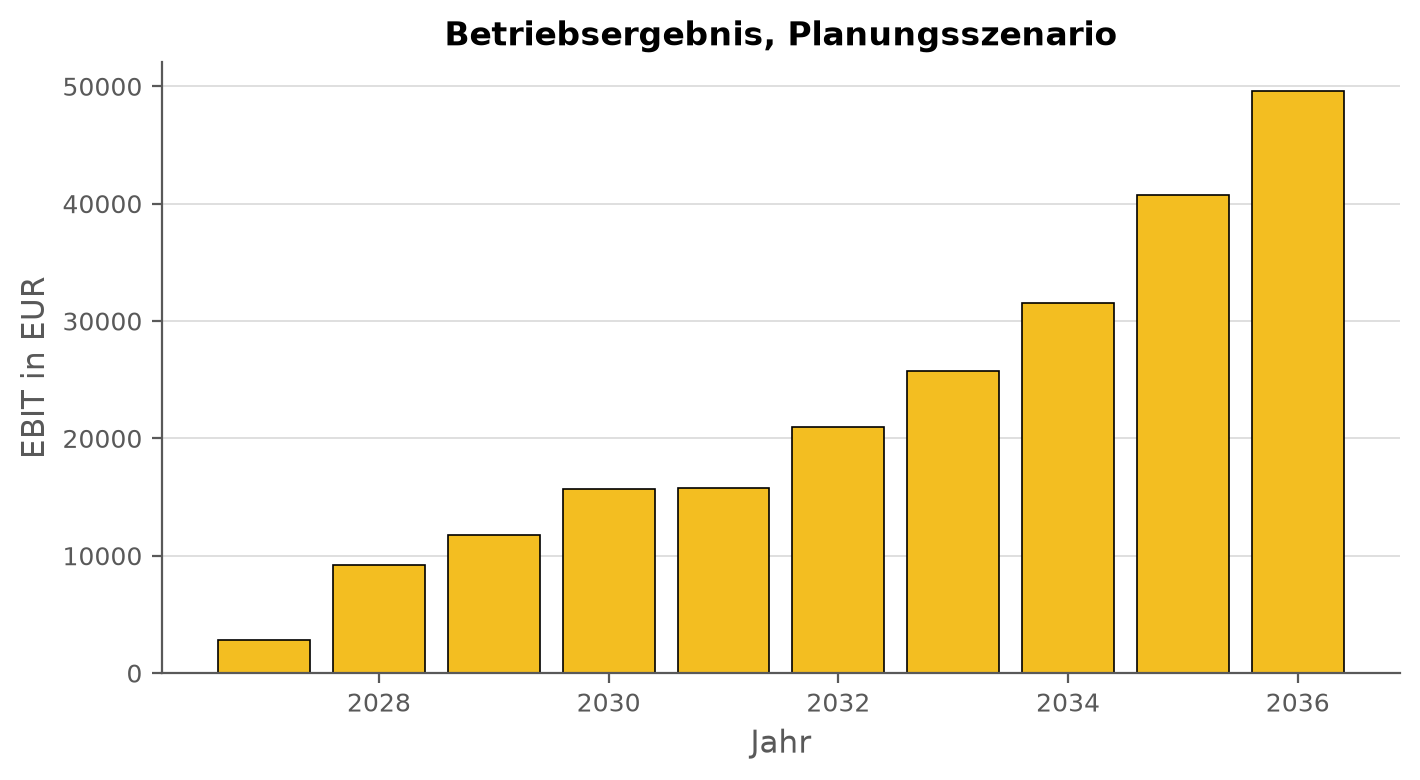
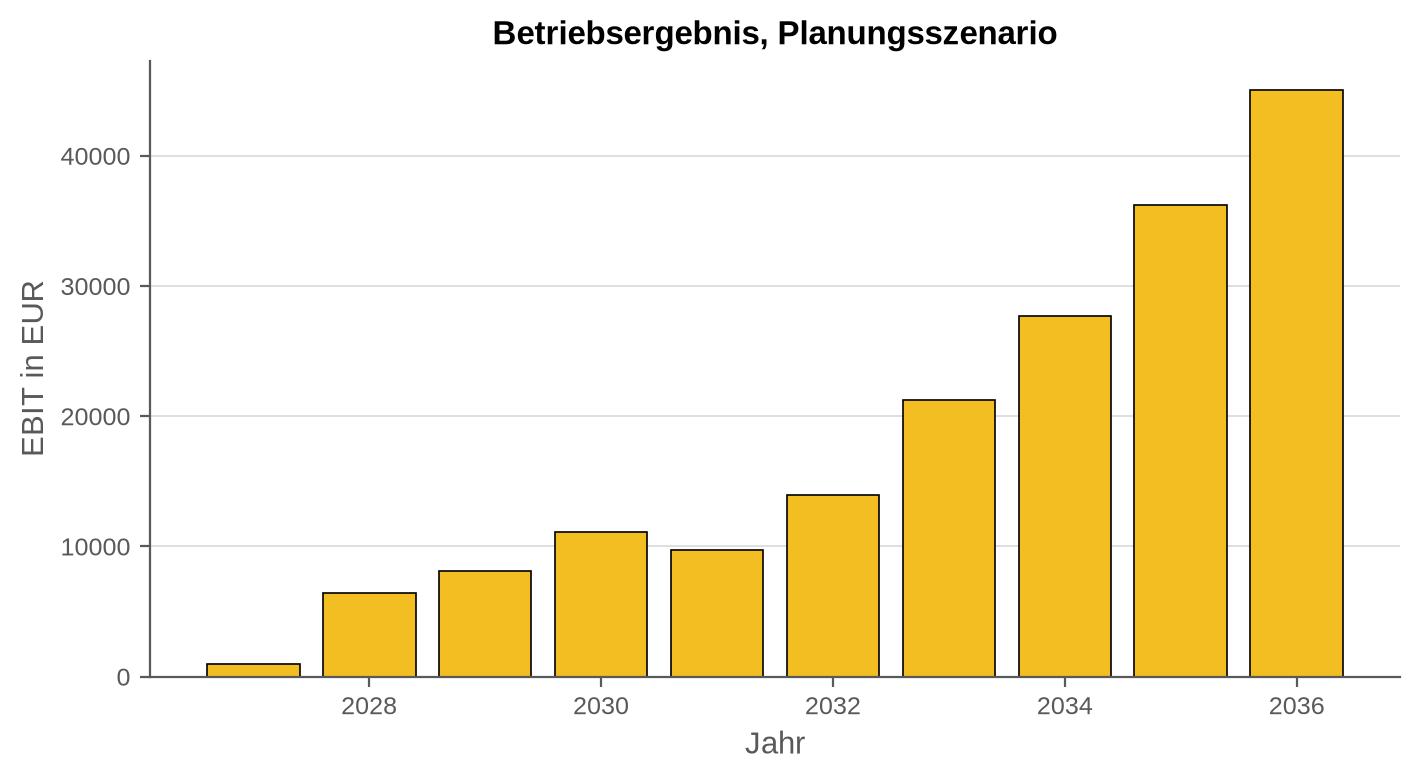
Businessplan: öffentliche Einwohnerzahlen, Anschaffung/AfA/Minijob angepasst, Risiken-Abschnitt entfernt
Auftraggeber-Vorgaben vom 30.08.2026:
- Einwohnerzahlen: öffentliche Vergleichszahlen statt gerundeter Schätzung
  (Bördekreis 170.984, Statistisches Landesamt Sachsen-Anhalt; Sülzetal
  8.841, citypopulation.de).
- Abschnitt 3 (Erlösquellen): Überschrift und Grafik auf einer Seite,
  aller Fließtext davor/danach entfernt (stand redundant in der Grafik
  selbst) — neue Funktion abschnitt_bild_quer() in make_businessplan.py.
- Annahmen-Tabelle: Anschaffung je Automat 6.000 € → 10.000 € netto,
  Abschreibungsdauer 8 → 6 Jahre, Minijob-Grenze 556 € → 603 €; Status-
  Hinweise ("geprüft", "Annahme", "nicht belegt") aus der Quelle-Spalte
  entfernt.
- Abschnitt 7 (Risiken und offene Punkte) vollständig entfernt.

Die Anschaffungs-/Abschreibungsänderung wirkt sich über die AfA auf jedes
EBIT im Modell aus; dabei sichtbar geworden: 2027 ist im konservativen
Szenario jetzt leicht negativ (−1.004 €). Beide Dokumente formulieren die
EBIT-Aussage seither bedingt statt pauschal "durchgehend positiv" zu
behaupten (negative_jahre_kons in make_businessplan.py, negJahre in
build_docx.js). ebit_balken.png und die docx-Fassung entsprechend
neu gebaut; PDF und Word inhaltlich wieder deckungsgleich.

Rechtsprüfung: reines Planungsdokument, keine Produkt-/DB-/Rechtstext-
Berührung in allen 8 Bereichen — keine Änderung nötig.

Claude-Session: https://claude.ai/code/session_01HnCVoQeDGMB1j3kdaKBaHP

diff --git a/docs/businessplan/build_docx.js b/docs/businessplan/build_docx.js
@@ -9,6 +9,17 @@ const {
 const daten = JSON.parse(fs.readFileSync("businessplan_zahlen.json", "utf8"));
 const datenKons = JSON.parse(fs.readFileSync("businessplan_zahlen_konservativ.json", "utf8"));
 
+const de0 = (n) => Math.round(n).toLocaleString("de-DE");
+const umsatz2027 = `${de0(daten[0].summe_erloese)} €`;
+const umsatz2036 = `${de0(daten[daten.length - 1].summe_erloese)} €`;
+const kumEbit = daten.reduce((s, r) => s + r.ebit, 0);
+const kumKons = datenKons.reduce((s, r) => s + r.ebit, 0);
+const negJahre = datenKons.filter((r) => r.ebit < 0).map((r) => r.jahr);
+const jahreText = negJahre.join(", ");
+const erstesNegBetrag = negJahre.length
+  ? `${de0(datenKons.find((r) => r.ebit < 0).ebit)} €`.replace("-", "−")
+  : "";
+
 // ---------------------------------------------------------------------
 // Marke
 // ---------------------------------------------------------------------
@@ -197,16 +208,18 @@ children.push(...bild("iconstrip_trim.png", 600));
 children.push(...ueberschrift("1. Zusammenfassung", 1, "**Bördesnack24 hat heute 0 dokumentierte Verkäufe.** Jede Zahl in diesem Plan ist deshalb eine Annahme, keine Messung, belegt mit der eigenen Preisliste oder einer externen Quelle."));
 children.push(hook("**Start: 3 Automaten** (2 in 2027, 1 in 2028), **4. bis 2029, danach +1 pro Jahr.** Bahnhof Osterweddingen, Freibad Langenweddingen, Sporthalle Langenweddingen."));
 children.push(spacer(120));
-children.push(kennzahlenReihe([["8.300 €", "Umsatz 2027"], ["103.900 €", "Umsatz 2036"], ["223.900 €", "EBIT, 10 Jahre kumuliert"], ["124.500 €", "EBIT konservativ, 10 Jahre"]]));
+children.push(kennzahlenReihe([[umsatz2027, "Umsatz 2027"], [umsatz2036, "Umsatz 2036"], [`${de0(kumEbit)} €`, "EBIT, 10 Jahre kumuliert"], [`${de0(kumKons)} €`, "EBIT konservativ, 10 Jahre"]]));
 children.push(spacer(240));
-children.push(hook("**Das Betriebsergebnis bleibt in jedem einzelnen der zehn Planjahre positiv**, auch im konservativen Szenario mit 40 % niedrigerem Umsatz je Automat (Abschnitt 6)."));
+children.push(hook(negJahre.length
+  ? `**Im Planungsszenario ist das Betriebsergebnis in jedem der zehn Jahre positiv.** Im konservativen Szenario (Abschnitt 6) ist einzig ${jahreText} leicht negativ (${erstesNegBetrag}), alle übrigen Jahre bleiben positiv.`
+  : "**Das Betriebsergebnis bleibt in jedem einzelnen der zehn Planjahre positiv**, auch im konservativen Szenario mit 40 % niedrigerem Umsatz je Automat (Abschnitt 6)."));
 
 // 2) Geschäftsmodell
 children.push(...ueberschrift("2. Geschäftsmodell und Standort", 1, "**Kein Nahversorger hat nachts oder sonntags offen.** Genau diese Lücke füllt Bördesnack24, App-Abo bindet zurück statt jeden Einkauf als Einzelereignis zu behandeln."));
 children.push(spacer(120));
-children.push(kennzahlenReihe([["168.000", "Einwohner Bördekreis"], ["9.000", "davon Sülzetal"], ["24/7", "Öffnungszeit"]]));
+children.push(kennzahlenReihe([["170.984", "Einwohner Bördekreis"], ["8.841", "davon Sülzetal"], ["24/7", "Öffnungszeit"]]));
 children.push(spacer(120));
-children.push(hinweis("Angaben des Auftraggebers; öffentliche Vergleichszahlen (citypopulation.de, Statista) liegen mit rund 171.000 bzw. 8.600–9.900 in derselben Größenordnung."));
+children.push(hinweis("Öffentliche Vergleichszahlen: Bördekreis, Statistisches Landesamt Sachsen-Anhalt (Stand 31.12.2025); Sülzetal, Gemeinde Sülzetal / citypopulation.de (Stand 01.01.2026)."));
 
 children.push(...ueberschrift("Standort- und Ausbauplan", 2, "**Vorgabe des Auftraggebers**, wörtlich umgesetzt: 3 Automaten zum Start, 4. bis 2029, danach +1 pro Jahr. **Die Zuordnung der ersten drei Standorte zu den Jahren ist ein Vorschlag dieses Plans**, keine Vorgabe."));
 
@@ -222,30 +235,26 @@ children.push(spacer(200));
 children.push(...bild("automatennetz_linie.png", 600, "Abb. 1: 3 Automaten zum Start, +1 pro Jahr ab 2030."));
 
 // 3) Erlösquellen
-children.push(...ueberschrift("3. Die vier Erlösquellen", 1, "**Keine Quelle steht für sich.** Der Automat bringt Kunden, die App macht sie zählbar, das macht die Werbeplattform wertvoll, Sponsoring bringt neue Standorte zurück zum Automaten."));
-children.push(...bild("zusammenspiel_pdf.png", 600, "Abb. 2: Zusammenspiel der vier Erlösquellen als ein System, nicht als vier getrennte Geschäfte."));
-children.push(kennzahlenReihe([["62", "Produkte"], ["0,99 € / 9,99 €", "App-Abo Monat/Jahr"], ["ab 15 €", "Werbung / Monat"], ["149 €", "Komplettpaket"]]));
-children.push(spacer(120));
-children.push(hinweis("Preise real, bereits entschieden (docs/ADVERTISING-MASTERPROMPT-ABGLEICH.md), nicht Teil dieses Plans neu festgelegt. Vor dem ersten Sponsoring-Vertrag: umsatzsteuerliche Prüfung durch den Steuerberater."));
-children.push(hook("**Offener Punkt bei der 5 %-Spende:** Heute kann jedes App-Konto vorschlagen und abstimmen, nicht nur zahlende Abonnenten, wie für diesen Plan angefragt (Abschnitt 7)."));
+children.push(...ueberschrift("3. Die vier Erlösquellen", 1));
+children.push(...bild("zusammenspiel_pdf.png", 600));
 
 // 4) Annahmen
 children.push(...ueberschrift("4. Annahmen dieses Plans", 1, "**Planungsannahmen, keine gemessenen Werte.** Mit Quelle, wo eine externe existiert, sonst eigene, im Text begründete Schätzung."));
 const annahmenZeilen = [
   ["Bruttoumsatz/Automat/Monat", "500–1.400 €, je Standort", "GTR Automaten/Maschinenpartner: 300–1.500 €/Monat typisch"],
-  ["Wareneinsatz Snacks/Getränke", "34,0 % vom Nettoumsatz", "eigene Preisliste, an DB geprüft"],
+  ["Wareneinsatz Snacks/Getränke", "34,0 % vom Nettoumsatz", "eigene Preisliste"],
   ["Wareneinsatz Heißgetränke", "16,5 % vom Nettoumsatz", "eigene Preisliste, Ø 6 Positionen"],
-  ["Anschaffung je Automat", "6.000 € netto", "VENDY1/dasvending: 4.989–9.000 € netto"],
-  ["Abschreibungsdauer", "8 Jahre linear", "angenommene Nutzungsdauer"],
+  ["Anschaffung je Automat", "10.000 € netto", "Angabe des Auftraggebers"],
+  ["Abschreibungsdauer", "6 Jahre linear", "Angabe des Auftraggebers"],
   ["Nayax-Grundgebühr", "14 €/Monat je Terminal", "Nayax-Shop FAQ"],
-  ["Kartengebühr", "3 % Kartenumsatz, 85 % Anteil", "Nayax Onyx 2,3–4 %, Anteil angenommen"],
-  ["Strom/Wartung/Versicherung", "40/30 €/Monat, 60 €/Jahr", "eigene Schätzung, nicht extern geprüft"],
-  ["Standortprovision", "5 % vom Bruttoumsatz", "branchenüblich, nicht belegt"],
-  ["Zahlende App-Abonnenten", "40 (2027) bis 720 (2036)", "eigene Schätzung, an Wachstum gekoppelt"],
+  ["Kartengebühr", "3 % Kartenumsatz, 85 % Anteil", "Nayax Onyx 2,3–4 %"],
+  ["Strom/Wartung/Versicherung", "40/30 €/Monat, 60 €/Jahr", ""],
+  ["Standortprovision", "5 % vom Bruttoumsatz", "branchenüblich"],
+  ["Zahlende App-Abonnenten", "40 (2027) bis 720 (2036)", "an Netzwachstum gekoppelt"],
   ["Ø Erlös je Abonnent", "0,90 €/Monat", "60 % Jahres-, 40 % Monatsabo"],
-  ["Auslastung Werbeflächen", "0 % (27/28) bis 70 % (36)", "eigene Rampe, Obergrenze wie Advertising-Dok."],
-  ["Digitale Werbekunden", "0 (27/28) bis 10 (36), Ø 60 €", "eigene Schätzung, Pakete real"],
-  ["Personal", "1 Minijob je 6 Automaten, 556 €", "Minijob-Grenze 2026, Schwelle Annahme"],
+  ["Auslastung Werbeflächen", "0 % (27/28) bis 70 % (36)", "Obergrenze wie Advertising-Dok."],
+  ["Digitale Werbekunden", "0 (27/28) bis 10 (36), Ø 60 €", "Paketpreise real"],
+  ["Personal", "1 Minijob je 6 Automaten, 603 €", "Minijob-Grenze 2026"],
 ];
 children.push(tabelle(["Größe", "Annahme", "Quelle / Begründung"], annahmenZeilen, [2600, 2400, 4000]));
 
@@ -254,13 +263,12 @@ children.push(...ueberschrift("5. Finanzplan, Jahr 1 bis 10", 1, "**Das Planungs
 const fpZeilen = daten.map((r) => [String(r.jahr), String(r.automaten), `${de(r.summe_erloese)} €`, `${de(r.summe_kosten_ohne_afa)} €`, `${de(r.afa_jahr)} €`, `${de(r.ebit)} €`]);
 children.push(tabelle(["Jahr", "Automaten", "Erlöse gesamt", "Kosten (o. AfA)", "Abschreibung", "EBIT"], fpZeilen, [1000, 1400, 1700, 1700, 1600, 1600], [1, 2, 3, 4, 5]));
 children.push(spacer(200));
-children.push(...bild("umsatz_balken.png", 600, "Abb. 3: Summe aller vier Erlösquellen nach Abzug des Spendenanteils."));
-children.push(...bild("erloesmix.png", 600, "Abb. 4: Anteil der vier Geschäftsbereiche am Erlös über den Planungszeitraum."));
-children.push(...bild("ebit_balken.png", 600, "Abb. 5: EBIT vor Steuern und Gesellschafterentnahmen; Delle 2031 durch die erste Teilzeitkraft ab dem 6. Automaten."));
+children.push(...bild("umsatz_balken.png", 600, "Abb. 2: Summe aller vier Erlösquellen nach Abzug des Spendenanteils."));
+children.push(...bild("erloesmix.png", 600, "Abb. 3: Anteil der vier Geschäftsbereiche am Erlös über den Planungszeitraum."));
+children.push(...bild("ebit_balken.png", 600, "Abb. 4: EBIT vor Steuern und Gesellschafterentnahmen; Delle 2031 durch die erste Teilzeitkraft ab dem 6. Automaten."));
 
 const kumSpende = daten.reduce((s, r) => s + r.spende, 0);
 const kumInvest = daten.reduce((s, r) => s + r.investition_jahr, 0);
-const kumEbit = daten.reduce((s, r) => s + r.ebit, 0);
 children.push(...ueberschrift("Spenden und Investitionen im Überblick", 2, "**Drei Zahlen, die den Plan zusammenfassen:**"));
 children.push(kennzahlenReihe([[`${de(kumSpende)} €`, "Spendentopf, 10 Jahre"], [`${de(kumInvest)} €`, "Investition, 11 Automaten"], [`${de(kumEbit)} €`, "EBIT kumuliert, 10 Jahre"]]));
 
@@ -268,27 +276,10 @@ children.push(kennzahlenReihe([[`${de(kumSpende)} €`, "Spendentopf, 10 Jahre"]
 children.push(...ueberschrift("6. Konservatives Szenario", 1, "**Was, wenn der Umsatz je Automat 40 % niedriger ausfällt?** Die unsicherste Annahme in diesem Plan, mit eigener Spalte durchgerechnet, alle übrigen Annahmen unverändert."));
 const sensZeilen = daten.map((r, i) => [String(r.jahr), `${de(r.ebit)} €`, `${de(datenKons[i].ebit)} €`]);
 children.push(tabelle(["Jahr", "EBIT Planungsszenario", "EBIT konservativ (−40 % Umsatz/Automat)"], sensZeilen, [1400, 3200, 4400], [1, 2]));
-const kumKons = datenKons.reduce((s, r) => s + r.ebit, 0);
 children.push(spacer(160));
-children.push(hook(`**Kumuliert sinkt das EBIT von ${de(kumEbit)} EUR auf ${de(kumKons)} EUR, bleibt aber in jedem einzelnen Jahr positiv.** Die drei zusätzlichen Erlösquellen hängen nicht am Automatenumsatz, das trägt den Unterschied.`));
-
-// 7) Risiken
-children.push(...ueberschrift("7. Risiken und offene Punkte", 1, "**Ehrlich benannt, statt beschönigt** (interne Arbeitsregel „Behauptungen vorher prüfen“):"));
-const risiken = [
-  "**Keine eigenen Ist-Verkaufsdaten.** Die Verkaufsdatenbank enthält 0 echte Zeilen (Stand 27.08.2026); jede Umsatzannahme hier ist extern hergeleitet oder eigene Schätzung.",
-  "**Standortzuordnung für Automat 1–3** auf 2027/2028 ist ein Vorschlag dieses Plans, keine Vorgabe des Auftraggebers. Standorte ab Automat 5 (2030) sind offen.",
-  "**Vereinsbeteiligung** ist umsatzsteuerlich in der Regel Leistungsaustausch, sobald Sichtbarkeit gewährt wird, vor dem ersten Sponsoring-Vertrag steuerlich zu bestätigen.",
-  "**Spendenabstimmung heute offen für alle Konten**, nicht nur zahlende Abonnenten. Die für diesen Plan angefragte Beschränkung ist im System nicht umgesetzt.",
-  "**Nayax-Gebühren, Standortprovision, Strom- und Wartungskosten** sind branchenübliche Annahmen, nicht am eigenen Betrieb geprüft (keine laufenden Verträge zum Planungszeitpunkt).",
-  "**sevDesk-Kontozuordnung** braucht laut docs/FINANCE.md eine einmalige Prüfung gegen das echte Konto, bevor Ist-Zahlen produktiv genutzt werden.",
-];
-risiken.forEach((r) => {
-  children.push(new Paragraph({
-    numbering: { reference: "risiken-liste", level: 0 },
-    spacing: { after: 140 },
-    children: bold(r),
-  }));
-});
+children.push(hook(negJahre.length
+  ? `**Kumuliert sinkt das EBIT von ${de(kumEbit)} EUR auf ${de(kumKons)} EUR.** Einzig ${jahreText} ist leicht negativ (${erstesNegBetrag}), alle übrigen Jahre bleiben positiv. Die drei zusätzlichen Erlösquellen hängen nicht am Automatenumsatz, das trägt den Unterschied.`
+  : `**Kumuliert sinkt das EBIT von ${de(kumEbit)} EUR auf ${de(kumKons)} EUR, bleibt aber in jedem einzelnen Jahr positiv.** Die drei zusätzlichen Erlösquellen hängen nicht am Automatenumsatz, das trägt den Unterschied.`));
 
 // ---------------------------------------------------------------------
 // Dokument zusammenbauen
@@ -300,13 +291,6 @@ const doc = new Document({
     default: {
       document: { run: { font: FONT_TEXT, size: 21, color: SCHWARZ } },
     },
-  },
-  numbering: {
-    config: [{
-      reference: "risiken-liste",
-      levels: [{ level: 0, format: LevelFormat.BULLET, text: "•", alignment: AlignmentType.LEFT,
-        style: { paragraph: { indent: { left: convertInchesToTwip(0.25), hanging: convertInchesToTwip(0.25) } } } }],
-    }],
   },
   sections: [{
     properties: {

diff --git a/docs/businessplan/zusammenspiel_v2.html b/docs/businessplan/zusammenspiel_v2.html
@@ -185,7 +185,6 @@
 
   <div class="fuss">
     <span>Bördesnack24 GbR</span>
-    <span>Vier Erlösquellen als ein zusammenhängendes System, nicht als vier getrennte Geschäfte.</span>
   </div>
 
 </div>

diff --git a/docs/businessplan/make_businessplan.py b/docs/businessplan/make_businessplan.py
@@ -66,14 +66,19 @@ def kennzahlen_reihe(doc, werte):
     doc.story.append(t)
     doc.story.append(Spacer(1, 2 * pb.mm))
 
-def bild_quer(doc, pfad, unterschrift=None):
-    """Vollformatiges Bild auf eigener Querseite -- fuer breite Grafiken,
-    die im Hochformat zu klein und unleserlich wuerden."""
+def abschnitt_bild_quer(doc, titel, pfad, unterschrift=None):
+    """Ueberschrift UND ein Vollformat-Bild zusammen auf einer eigenen
+    Querseite -- fuer breite Grafiken, die im Hochformat zu klein und
+    unleserlich wuerden, aber trotzdem mit ihrer Ueberschrift auf
+    derselben Seite stehen sollen (nicht die Ueberschrift auf der
+    vorherigen Hochformat-Seite)."""
     doc._nach_quer()
+    doc.story.append(Paragraph(_esc(titel), doc.st["h1"]))
+    doc.story.append(HRFlowable(width="100%", thickness=1.2, color=pb.GOLD, spaceBefore=2, spaceAfter=6))
     iw, ih = ImageReader(pfad).getSize()
     aspekt = iw / ih
     max_breite = pb.LANDSCAPE_CONTENT
-    max_hoehe = (pb.LAND_H - pb.RAND_OBEN_OHNE_HEADER) - pb.RAND_UNTEN
+    max_hoehe = (pb.LAND_H - pb.RAND_OBEN_OHNE_HEADER) - pb.RAND_UNTEN - 22 * pb.mm
     if unterschrift:
         max_hoehe -= 14 * pb.mm
     breite, hoehe = max_breite, max_breite / aspekt
@@ -164,7 +169,6 @@ TOC_ABSCHNITTE = [
     ("5. Finanzplan, Jahr 1 bis 10", 1),
     ("Spenden und Investitionen im Überblick", 2),
     ("6. Konservatives Szenario", 1),
-    ("7. Risiken und offene Punkte", 1),
 ]
 
 # ---------------------------------------------------------------------
@@ -174,19 +178,19 @@ TOC_ABSCHNITTE = [
 ANNAHMEN_TABELLE = [
     ["Größe", "Annahme", "Quelle / Begründung"],
     ["Bruttoumsatz/Automat/Monat", "500–1.400 €, je Standort", "GTR Automaten/Maschinenpartner: 300–1.500 €/Monat typisch"],
-    ["Wareneinsatz Snacks/Getränke", "34,0 % vom Nettoumsatz", "eigene Preisliste, an DB geprüft"],
+    ["Wareneinsatz Snacks/Getränke", "34,0 % vom Nettoumsatz", "eigene Preisliste"],
     ["Wareneinsatz Heißgetränke", "16,5 % vom Nettoumsatz", "eigene Preisliste, Ø 6 Positionen"],
-    ["Anschaffung je Automat", "6.000 € netto", "VENDY1/dasvending: 4.989–9.000 € netto"],
-    ["Abschreibungsdauer", "8 Jahre linear", "angenommene Nutzungsdauer"],
+    ["Anschaffung je Automat", "10.000 € netto", "Angabe des Auftraggebers"],
+    ["Abschreibungsdauer", "6 Jahre linear", "Angabe des Auftraggebers"],
     ["Nayax-Grundgebühr", "14 €/Monat je Terminal", "Nayax-Shop FAQ"],
-    ["Kartengebühr", "3 % Kartenumsatz, 85 % Anteil", "Nayax Onyx 2,3–4 %, Anteil angenommen"],
-    ["Strom/Wartung/Versicherung", "40/30 €/Monat, 60 €/Jahr", "eigene Schätzung, nicht extern geprüft"],
-    ["Standortprovision", "5 % vom Bruttoumsatz", "branchenüblich, nicht belegt"],
-    ["Zahlende App-Abonnenten", "40 (2027) bis 720 (2036)", "eigene Schätzung, an Wachstum gekoppelt"],
+    ["Kartengebühr", "3 % Kartenumsatz, 85 % Anteil", "Nayax Onyx 2,3–4 %"],
+    ["Strom/Wartung/Versicherung", "40/30 €/Monat, 60 €/Jahr", ""],
+    ["Standortprovision", "5 % vom Bruttoumsatz", "branchenüblich"],
+    ["Zahlende App-Abonnenten", "40 (2027) bis 720 (2036)", "an Netzwachstum gekoppelt"],
     ["Ø Erlös je Abonnent", "0,90 €/Monat", "60 % Jahres-, 40 % Monatsabo"],
-    ["Auslastung Werbeflächen", "0 % (27/28) bis 70 % (36)", "eigene Rampe, Obergrenze wie Advertising-Dok."],
-    ["Digitale Werbekunden", "0 (27/28) bis 10 (36), Ø 60 €", "eigene Schätzung, Pakete real"],
-    ["Personal", "1 Minijob je 6 Automaten, 556 €", "Minijob-Grenze 2026, Schwelle Annahme"],
+    ["Auslastung Werbeflächen", "0 % (27/28) bis 70 % (36)", "Obergrenze wie Advertising-Dok."],
+    ["Digitale Werbekunden", "0 (27/28) bis 10 (36), Ø 60 €", "Paketpreise real"],
+    ["Personal", "1 Minijob je 6 Automaten, 603 €", "Minijob-Grenze 2026"],
 ]
 
 # =======================================================================
@@ -214,26 +218,39 @@ def baue_inhalt(doc, toc_seiten):
     ])
     doc.bild("iconstrip_trim.png", breite_mm=155)
 
+    umsatz_2027 = f'{daten[0]["summe_erloese"]:,.0f} €'.replace(",", ".")
+    umsatz_2036 = f'{daten[-1]["summe_erloese"]:,.0f} €'.replace(",", ".")
+    ebit_kum = sum(r["ebit"] for r in daten)
+    ebit_kum_kons = sum(r["ebit"] for r in daten_kons)
+    ebit_kum_de = f'{ebit_kum:,.0f} €'.replace(",", ".")
+    ebit_kum_kons_de = f'{ebit_kum_kons:,.0f} €'.replace(",", ".")
+
     abschnitt(doc, "1. Zusammenfassung", 1,
               "**Bördesnack24 hat heute 0 dokumentierte Verkäufe.** Jede Zahl in diesem Plan ist deshalb eine Annahme, keine Messung, belegt mit der eigenen Preisliste oder einer externen Quelle.")
     hook(doc, "**Start: 3 Automaten** (2 in 2027, 1 in 2028), **4. bis 2029, danach +1 pro Jahr.** Bahnhof Osterweddingen, Freibad Langenweddingen, Sporthalle Langenweddingen.")
     kennzahlen_reihe(doc, [
-        ("8.300 €", "Umsatz 2027"),
-        ("103.900 €", "Umsatz 2036"),
-        ("223.900 €", "EBIT, 10 Jahre kumuliert"),
-        ("124.500 €", "EBIT konservativ, 10 Jahre"),
+        (umsatz_2027, "Umsatz 2027"),
+        (umsatz_2036, "Umsatz 2036"),
+        (ebit_kum_de, "EBIT, 10 Jahre kumuliert"),
+        (ebit_kum_kons_de, "EBIT konservativ, 10 Jahre"),
     ])
-    hook(doc, "**Das Betriebsergebnis bleibt in jedem einzelnen der zehn Planjahre positiv**, auch im konservativen Szenario mit 40 % niedrigerem Umsatz je Automat (Abschnitt 6).")
+    negative_jahre_kons = [r["jahr"] for r in daten_kons if r["ebit"] < 0]
+    if negative_jahre_kons:
+        jahre_text = ", ".join(str(j) for j in negative_jahre_kons)
+        erstes_neg_betrag = f'{next(r["ebit"] for r in daten_kons if r["ebit"] < 0):,.0f} €'.replace(",", ".").replace("-", "−")
+        hook(doc, f"**Im Planungsszenario ist das Betriebsergebnis in jedem der zehn Jahre positiv.** Im konservativen Szenario (Abschnitt 6) ist einzig {jahre_text} leicht negativ ({erstes_neg_betrag}), alle übrigen Jahre bleiben positiv.")
+    else:
+        hook(doc, "**Das Betriebsergebnis bleibt in jedem einzelnen der zehn Planjahre positiv**, auch im konservativen Szenario mit 40 % niedrigerem Umsatz je Automat (Abschnitt 6).")
 
     # 2) Geschäftsmodell ---------------------------------------------------
     abschnitt(doc, "2. Geschäftsmodell und Standort", 1,
               "**Kein Nahversorger hat nachts oder sonntags offen.** Genau diese Lücke füllt Bördesnack24, App-Abo bindet zurück statt jeden Einkauf als Einzelereignis zu behandeln.")
     kennzahlen_reihe(doc, [
-        ("168.000", "Einwohner Bördekreis"),
-        ("9.000", "davon Sülzetal"),
+        ("170.984", "Einwohner Bördekreis"),
+        ("8.841", "davon Sülzetal"),
         ("24/7", "Öffnungszeit"),
     ])
-    doc.hinweis("Angaben des Auftraggebers; öffentliche Vergleichszahlen (citypopulation.de, Statista) liegen mit rund 171.000 bzw. 8.600–9.900 in derselben Größenordnung.")
+    doc.hinweis("Öffentliche Vergleichszahlen: Bördekreis, Statistisches Landesamt Sachsen-Anhalt (Stand 31.12.2025); Sülzetal, Gemeinde Sülzetal / citypopulation.de (Stand 01.01.2026).")
 
     abschnitt(doc, "Standort- und Ausbauplan", 2,
               "**Vorgabe des Auftraggebers**, wörtlich umgesetzt: 3 Automaten zum Start, 4. bis 2029, danach +1 pro Jahr. **Die Zuordnung der ersten drei Standorte zu den Jahren ist ein Vorschlag dieses Plans**, keine Vorgabe.")
@@ -259,20 +276,7 @@ def baue_inhalt(doc, toc_seiten):
     )
 
     # 3) Erlösquellen -------------------------------------------------------
-    abschnitt(doc, "3. Die vier Erlösquellen", 1,
-              "**Keine Quelle steht für sich.** Der Automat bringt Kunden, die App macht sie zählbar, das macht die Werbeplattform wertvoll, Sponsoring bringt neue Standorte zurück zum Automaten.")
-
-    bild_quer(doc, "zusammenspiel_pdf.png",
-              unterschrift="Abb. 0: Zusammenspiel der vier Erlösquellen als ein System, nicht als vier getrennte Geschäfte.")
-
-    kennzahlen_reihe(doc, [
-        ("62", "Produkte"),
-        ("0,99 € / 9,99 €", "App-Abo Monat/Jahr"),
-        ("ab 15 €", "Werbung / Monat"),
-        ("149 €", "Komplettpaket"),
-    ])
-    doc.hinweis("Preise real, bereits entschieden (docs/ADVERTISING-MASTERPROMPT-ABGLEICH.md), nicht Teil dieses Plans neu festgelegt. Vor dem ersten Sponsoring-Vertrag: umsatzsteuerliche Prüfung durch den Steuerberater.")
-    hook(doc, "**Offener Punkt bei der 5 %-Spende:** Heute kann jedes App-Konto vorschlagen und abstimmen, nicht nur zahlende Abonnenten, wie für diesen Plan angefragt (Abschnitt 7).")
+    abschnitt_bild_quer(doc, "3. Die vier Erlösquellen", "zusammenspiel_pdf.png")
 
     # 4) Annahmen -------------------------------------------------------------
     abschnitt(doc, "4. Annahmen dieses Plans", 1,
@@ -330,21 +334,10 @@ def baue_inhalt(doc, toc_seiten):
     kum_kons = sum(r["ebit"] for r in daten_kons)
     _kum_ebit_de = f'{kum_ebit:,.0f}'.replace(",", ".")
     _kum_kons_de = f'{kum_kons:,.0f}'.replace(",", ".")
-    hook(doc, f"**Kumuliert sinkt das EBIT von {_kum_ebit_de} EUR auf {_kum_kons_de} EUR, bleibt aber in jedem einzelnen Jahr positiv.** Die drei zusätzlichen Erlösquellen hängen nicht am Automatenumsatz, das trägt den Unterschied.")
-
-    # 7) Risiken und offene Punkte -----------------------------------------------
-    abschnitt(doc, "7. Risiken und offene Punkte", 1,
-              "**Ehrlich benannt, statt beschönigt** (interne Arbeitsregel „Behauptungen vorher prüfen“):")
-    risiken = [
-        "**Keine eigenen Ist-Verkaufsdaten.** Die Verkaufsdatenbank enthält 0 echte Zeilen (Stand 27.08.2026); jede Umsatzannahme hier ist extern hergeleitet oder eigene Schätzung.",
-        "**Standortzuordnung für Automat 1–3** auf 2027/2028 ist ein Vorschlag dieses Plans, keine Vorgabe des Auftraggebers. Standorte ab Automat 5 (2030) sind offen.",
-        "**Vereinsbeteiligung** ist umsatzsteuerlich in der Regel Leistungsaustausch, sobald Sichtbarkeit gewährt wird, vor dem ersten Sponsoring-Vertrag steuerlich zu bestätigen.",
-        "**Spendenabstimmung heute offen für alle Konten**, nicht nur zahlende Abonnenten. Die für diesen Plan angefragte Beschränkung ist im System nicht umgesetzt.",
-        "**Nayax-Gebühren, Standortprovision, Strom- und Wartungskosten** sind branchenübliche Annahmen, nicht am eigenen Betrieb geprüft (keine laufenden Verträge zum Planungszeitpunkt).",
-        "**sevDesk-Kontozuordnung** braucht laut docs/FINANCE.md eine einmalige Prüfung gegen das echte Konto, bevor Ist-Zahlen produktiv genutzt werden.",
-    ]
-    for r in risiken:
-        hook(doc, "• " + r)
+    if negative_jahre_kons:
+        hook(doc, f"**Kumuliert sinkt das EBIT von {_kum_ebit_de} EUR auf {_kum_kons_de} EUR.** Einzig {jahre_text} ist leicht negativ ({erstes_neg_betrag}), alle übrigen Jahre bleiben positiv. Die drei zusätzlichen Erlösquellen hängen nicht am Automatenumsatz, das trägt den Unterschied.")
+    else:
+        hook(doc, f"**Kumuliert sinkt das EBIT von {_kum_ebit_de} EUR auf {_kum_kons_de} EUR, bleibt aber in jedem einzelnen Jahr positiv.** Die drei zusätzlichen Erlösquellen hängen nicht am Automatenumsatz, das trägt den Unterschied.")
 
 
 def baue_dokument(pfad, toc_seiten):

diff --git a/docs/businessplan/businessplan_model.py b/docs/businessplan/businessplan_model.py
@@ -76,9 +76,8 @@ WARTUNG_PRO_MONAT = 30.0        # EUR/Monat/Gerät (Annahme)
 VERSICHERUNG_PRO_JAHR = 60.0    # EUR/Jahr/Gerät (Annahme)
 STANDORTPROVISION_SATZ = 0.05   # 5 % vom Bruttoumsatz an Standortgeber (Branchenannahme)
 
-INVESTITION_PRO_AUTOMAT = 6000.0   # EUR netto, Kombiautomat gekühlt inkl. Kartenterminal
-                                    # Quelle Bandbreite: VENDY1/dasvending -- 4.989-9.000 EUR netto
-AFA_JAHRE = 8                      # lineare Abschreibungsdauer (Annahme, betriebsgewöhnliche ND)
+INVESTITION_PRO_AUTOMAT = 10000.0  # EUR netto, Angabe des Auftraggebers (30.08.2026)
+AFA_JAHRE = 6                       # lineare Abschreibungsdauer, Angabe des Auftraggebers (30.08.2026)
 
 # ---------------------------------------------------------------------------
 # 4) Spenden -- 5 % vom Netto-Produktumsatz (nur Automaten-/App-Verkauf,
@@ -137,7 +136,7 @@ def reichweitenfaktor(aktive_konten):
 # ---------------------------------------------------------------------------
 # 8) Personal -- Minijob-Kraft(e) für Befüllung/Logistik ab Netzgröße
 # ---------------------------------------------------------------------------
-MINIJOB_MONAT = 556.0  # EUR/Monat, gesetzliche Minijob-Grenze 2026
+MINIJOB_MONAT = 603.0  # EUR/Monat, Minijob-Grenze 2026, Angabe des Auftraggebers (30.08.2026)
 
 def anzahl_minijobs(automaten_anzahl):
     return automaten_anzahl // 6  # 1 Kraft ab 6, 2. ab 12 usw.

diff --git a/docs/businessplan/README.md b/docs/businessplan/README.md
@@ -98,9 +98,22 @@ python3 make_businessplan.py
   ersten drei Standorte zu den Jahren (Bahnhof Osterweddingen 2027, Freibad
   Langenweddingen 2028, Sporthalle Langenweddingen 2029) ist ein
   **Vorschlag dieses Plans**, keine Vorgabe.
+- **Anschaffung je Automat 10.000 € netto, Abschreibungsdauer 6 Jahre
+  linear, Minijob-Grenze 603 €/Monat** — alle drei Angabe des
+  Auftraggebers (30.08.2026), vorher 6.000 €/8 Jahre/556 €. Die Änderung
+  wirkt sich auf jedes EBIT im Modell aus (mehr Investition, kürzere
+  Abschreibungsdauer → höhere jährliche AfA).
+- **Einwohnerzahlen**: öffentliche Vergleichszahlen statt der gerundeten
+  Schätzung des Auftraggebers — Bördekreis 170.984 (Statistisches
+  Landesamt Sachsen-Anhalt, Stand 31.12.2025), Sülzetal 8.841 (Gemeinde
+  Sülzetal / citypopulation.de, Stand 01.01.2026).
 - **Konservatives Szenario**: alle Bruttoumsatz-Annahmen je Automat um 40 %
-  gesenkt, alle übrigen Annahmen unverändert. Bleibt in jedem der zehn
-  Planjahre operativ profitabel.
+  gesenkt, alle übrigen Annahmen unverändert. Seit der Anschaffungs-/
+  Abschreibungs-Änderung ist **2027 im konservativen Szenario leicht
+  negativ** (−1.004 €), alle übrigen neun Jahre bleiben positiv — beide
+  Dokumente formulieren das inzwischen bedingt (`negative_jahre_kons` in
+  `make_businessplan.py` / `negJahre` in `build_docx.js`), nicht mehr als
+  pauschale „durchgehend positiv“-Behauptung.
 
 Alle weiteren Annahmen (Nayax-Gebühren, Standortprovision, Strom/Wartung,
 Personal, Werbeflächen-Auslastung, digitale Werbekunden) stehen mit Quelle
@@ -172,6 +185,22 @@ einem Rechner ohne diesen Sandbox-Defekt ersetzt das nicht vollständig.
   und baut dann das finale PDF mit den richtigen Zahlen. Neue Abschnitte
   gehören zusätzlich in die `TOC_ABSCHNITTE`-Liste am Kopf des Skripts,
   mit exakt demselben Text wie im `abschnitt()`-Aufruf.
+- **Abschnitt 3 („Die vier Erlösquellen“) ist Überschrift + Grafik auf
+  einer einzigen Querseite**, ohne Fließtext davor oder danach — auf
+  Wunsch des Auftraggebers (30.08.2026), weil der Text in der Grafik
+  selbst schon steht und sonst doppelt stünde. Löst `abschnitt_bild_quer()`
+  statt der Kombination `abschnitt()` + `doc.bild()`: schreibt Überschrift
+  und Goldlinie direkt auf die Querseite, bevor das Bild folgt (reportlab
+  bietet dafür keine öffentliche API, die Funktion nutzt `doc._nach_quer()`
+  direkt). Die Grafik trägt seither **keine eigene Bildunterschrift** mehr
+  — eine „Abb. 0“-Beschriftung hätte exakt den Satz wiederholt, den der
+  Auftraggeber aus der Grafik selbst schon entfernen liess. Dadurch beginnt
+  die Abbildungsnummerierung der übrigen Grafiken bei „Abb. 1“
+  (Standortnetz), nicht bei „Abb. 2“.
+- **Abschnitt „7. Risiken und offene Punkte“ existiert nicht mehr** (PDF
+  und DOCX gleichermaßen, entfernt 30.08.2026 auf Wunsch des
+  Auftraggebers — siehe „Bekannte Grenzen“ unten für den einzigen Punkt,
+  der dadurch nicht mehr im Businessplan selbst steht).
 
 ## Bekannte Grenzen
 
@@ -187,5 +216,9 @@ einem Rechner ohne diesen Sandbox-Defekt ersetzt das nicht vollständig.
   eigene Schätzung, nicht am eigenen Betrieb gemessen.
 - Die Spendenabstimmung ist im heutigen System **für alle App-Konten**
   offen, nicht nur für zahlende Abonnenten — die Infografik zeigt das
-  als Ziel mit sichtbarem Hinweis auf den heutigen Stand, der Businessplan
-  führt es unter „Risiken und offene Punkte“.
+  als Ziel mit sichtbarem Hinweis auf den heutigen Stand. Der Businessplan
+  nannte diesen Punkt bisher unter „7. Risiken und offene Punkte“; dieser
+  Abschnitt wurde am 30.08.2026 auf Wunsch des Auftraggebers entfernt
+  („sind keine Risiken“) und stand seither nirgends mehr im Businessplan
+  selbst — festgehalten hier, damit der Punkt nicht ganz aus dem Blick
+  gerät.
